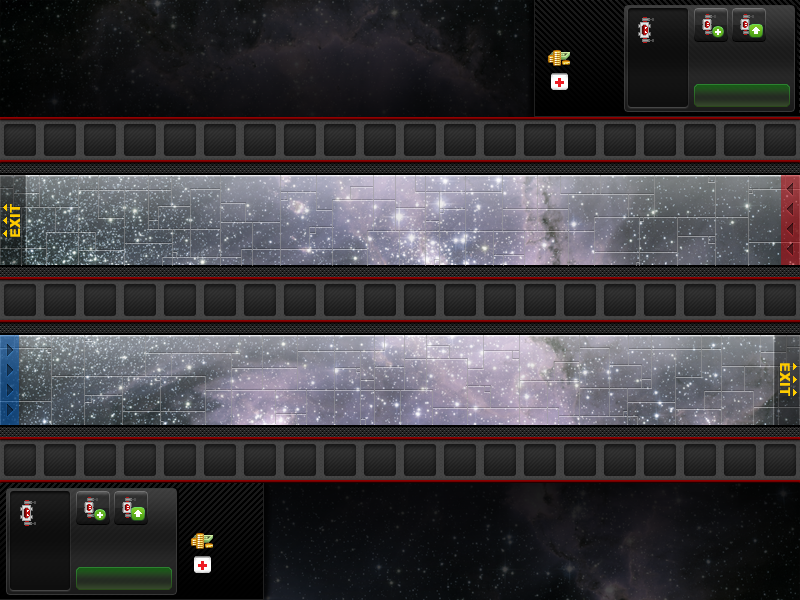
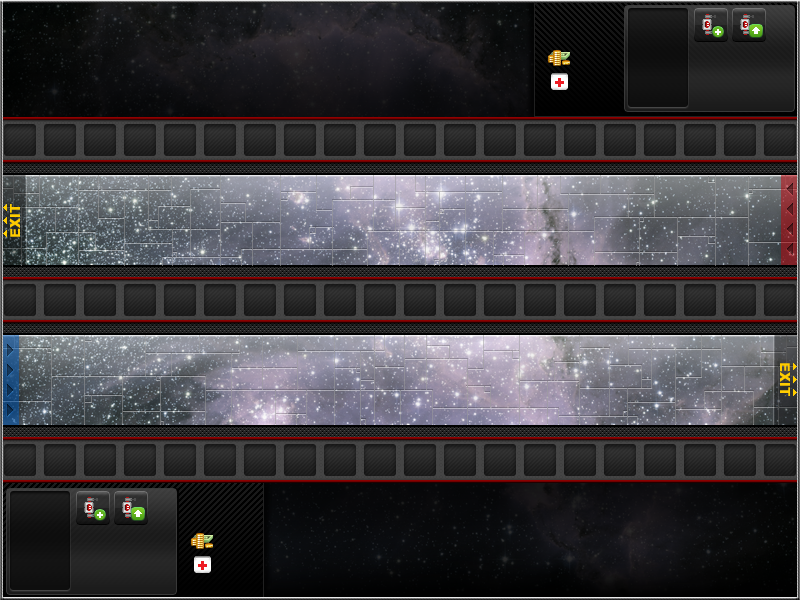
Lots of UI work.

diff --git a/public/js/game.js b/public/js/game.js
@@ -1,12 +1,4 @@
 var Game = {
-  bindEventListeners: function() {
-    $('#launch-wave')[0].addEventListener('click', function(event) {
-      Game.launchWave();
-
-      event.preventDefault();
-    });
-  },
-
   connect: function() {
     var
     socket = new io.Socket(window.location.hostname, { port : 8024 });
@@ -18,33 +10,38 @@ var Game = {
   },
 
   onDisconnect: function() {
-    $('#hud')[0].style.display = 'none';
     $('#waiting')[0].style.display = 'block';
     $('#waiting')[0].innerHTML = 'You were disconnected. Reload to play again.';
   },
 
   onReady: function(top_player_id, bottom_player_id) {
     Game.map = new Map(top_player_id, bottom_player_id);
-    Game.bindEventListeners();
 
-    $('#hud')[0].style.display = 'block';
     $('#waiting')[0].style.display = 'none'
 
-    var bind;
-    var remove;
+    var player;
+    var other;
 
     if (Game.session_id == top_player_id) {
-      bind   = $('#player-1 .add-robot-1');
-      remove = $('#player-2 .add-robot-1');
+      other  = $('#player-2')[0];
+      player = $('#player-1')[0];
     } else {
-      bind   = $('#player-2 .add-robot-1');
-      remove = $('#player-1 .add-robot-1');
+      other  = $('#player-1')[0];
+      player = $('#player-2')[0];
     }
 
-    remove = remove[0];
-    remove.parentNode.removeChild(remove);
-    bind[0].addEventListener('click', function(event) {
+    $('a', other).forEach(function(element) {
+      element.parentNode.removeChild(element);
+    });
+
+    $('.add-robot-1', player)[0].addEventListener('click', function(event) {
       Game.addRobot();
+
+      event.preventDefault();
+    });
+
+    $('.launch-wave', player)[0].addEventListener('click', function(event) {
+      Game.launchWave();
 
       event.preventDefault();
     });
@@ -64,6 +61,10 @@ var Game = {
     switch (message.action) {
       case 'game_ready':
         Game.onReady(message.top_player_id, message.bottom_player_id);
+
+        $('.player').forEach(function(element) {
+          element.style.display = 'block';
+        });
       break;
 
       case 'game_finished':
@@ -73,20 +74,32 @@ var Game = {
           $('#waiting')[0].innerHTML = 'You won! Reload to play again.';
         }
 
-        $('#hud')[0].style.display = 'none';
+        $('.player').forEach(function(element) {
+          element.style.display = 'none';
+        });
+
         $('#waiting')[0].style.display = 'block';
       break;
 
       case 'game_disbanded':
-        $('#hud')[0].style.display = 'none';
+        $('.player').forEach(function(element) {
+          element.style.display = 'none';
+        });
+
         $('#waiting')[0].style.display = 'block';
         $('#waiting')[0].innerHTML = 'Your opponent disconnected. Reload to play again.';
       break;
 
       case 'life_lost':
         if (Game.session_id == message.id) {
-          var
-          element = $('#health')[0];
+          var element;
+
+          if (message.id == Game.map.topPlayer) {
+            element = $('#player-1 .lives')[0];
+          } else {
+            element = $('#player-2 .lives')[0];
+          }
+
           element.innerHTML = parseInt(element.innerHTML, 10) - 1;
         }
       break;
@@ -105,9 +118,16 @@ var Game = {
       break;
 
       case 'robot_created':
-        if (Game.session_id == message.id) {
-          $('#robot-count')[0].innerHTML = message.robot_count;
+        var element;
+
+        if (message.id == Game.map.topPlayer) {
+          element = $('#player-1 .robot-1-count')[0];
+        } else {
+          element = $('#player-2 .robot-1-count')[0];
         }
+
+        element.innerHTML = message.robot_count;
+        element.style.display = 'block';
       break;
 
       case 'robot_destroyed':
@@ -115,9 +135,15 @@ var Game = {
       break;
 
       case 'wave_launched':
-        if (Game.session_id == message.id) {
-          $('#robot-count')[0].innerHTML = 0;
+        var element;
+
+        if (message.id == Game.map.topPlayer) {
+          element = $('#player-1 .robot-1-count')[0];
+        } else {
+          element = $('#player-2 .robot-1-count')[0];
         }
+
+        element.style.display = 'none';
 
         for (var i = 0, l = message.robots.length; i < l; i++) {
           (function() {

diff --git a/public/css/screen.css b/public/css/screen.css
@@ -1,7 +1,7 @@
 html,
 body {
   background: #000;
-  color: #000;
+  color: #FFF;
   width: 100%;
   height: 100%;
   overflow: hidden;
@@ -22,14 +22,6 @@ canvas {
   height: 600px;
   margin: 0 auto;
   display: block;
-}
-
-#hud {
-  position: fixed;
-  right: 5px;
-  bottom: 5px;
-  padding: 8px;
-  display: none;
 }
 
 #waiting {
@@ -56,6 +48,7 @@ canvas {
   width: 260px;
   height: 108px;
   z-index: 128;
+  display: none;
 }
 
 .player .cash {
@@ -64,11 +57,41 @@ canvas {
   font: 16px/1 Helvetica, Arial, Sans-serif;
 }
 
+.player .lives {
+  position: absolute;
+  color: #FFF;
+  font: 16px/1 Helvetica, Arial, Sans-serif;
+}
+
 .player .add-robot-1 {
   position: absolute;
   width: 34px;
   height: 34px;
   display: block;
+}
+
+.player .launch-wave {
+  position: absolute;
+  background: url(/images/green-button.png);
+  color: #A2FF00;
+  width: 96px;
+  height: 22px;
+  font: 11px/24px Helvetica, Arial, Sans-serif;
+  text-align: center;
+  text-decoration: none;
+  display: block;
+}
+
+.player .robot-1-count {
+  position: relative;
+  background: url(/images/robot-1.png) no-repeat;
+  color: #FFF;
+  width: 24px;
+  height: 32px;
+  padding: 0 0 0 34px;
+  font: 13px/32px Helvetica, Arial, Sans-serif;
+  display: block;
+  cursor: default;
 }
 
 #player-1 {
@@ -81,9 +104,24 @@ canvas {
   left: 38px;
 }
 
+#player-1 .lives {
+  top: 70px;
+  left: 38px;
+}
+
 #player-1 .add-robot-1 {
   top: 4px;
   left: 158px;
+}
+
+#player-1 .launch-wave {
+  right: 6px;
+  bottom: 6px;
+}
+
+#player-1 .robot-1-count {
+  top: 10px;
+  left: 94px;
 }
 
 #player-2 {
@@ -96,7 +134,22 @@ canvas {
   left: 212px;
 }
 
+#player-2 .lives {
+  top: 69px;
+  left: 212px;
+}
+
 #player-2 .add-robot-1 {
   top: 2px;
   left: 72px;
+}
+
+#player-2 .launch-wave {
+  left: 72px;
+  bottom: 6px;
+}
+
+#player-2 .robot-1-count {
+  left: 8px;
+  top: 10px;
 }

diff --git a/public/index.html b/public/index.html
@@ -15,23 +15,22 @@
 
 <div id="waiting">Waiting on an opponent...</div>
 
-<div id="hud">
-  <ul>
-    <li>Health: <span id="health">10</span></li>
-    <li><a href="#" id="launch-wave">Launch Wave (<span id="robot-count">5</span>)</a></li>
-  </ul>
-</div>
-
 <div id="map">
   <canvas width="800" height="600"></canvas>
 
   <div id="player-1" class="player">
+    <span class="lives">10</span>
     <a href="#" class="add-robot-1"></a>
+    <span class="robot-1-count">5</span>
+    <a href="#" class="launch-wave">LAUNCH WAVE</a>
 
     <div class="cash">$200</div>
   </div>
   <div id="player-2" class="player">
+    <span class="lives">10</span>
     <a href="#" class="add-robot-1"></a>
+    <span class="robot-1-count">5</span>
+    <a href="#" class="launch-wave">LAUNCH WAVE</a>
 
     <div class="cash">$200</div>
   </div>
